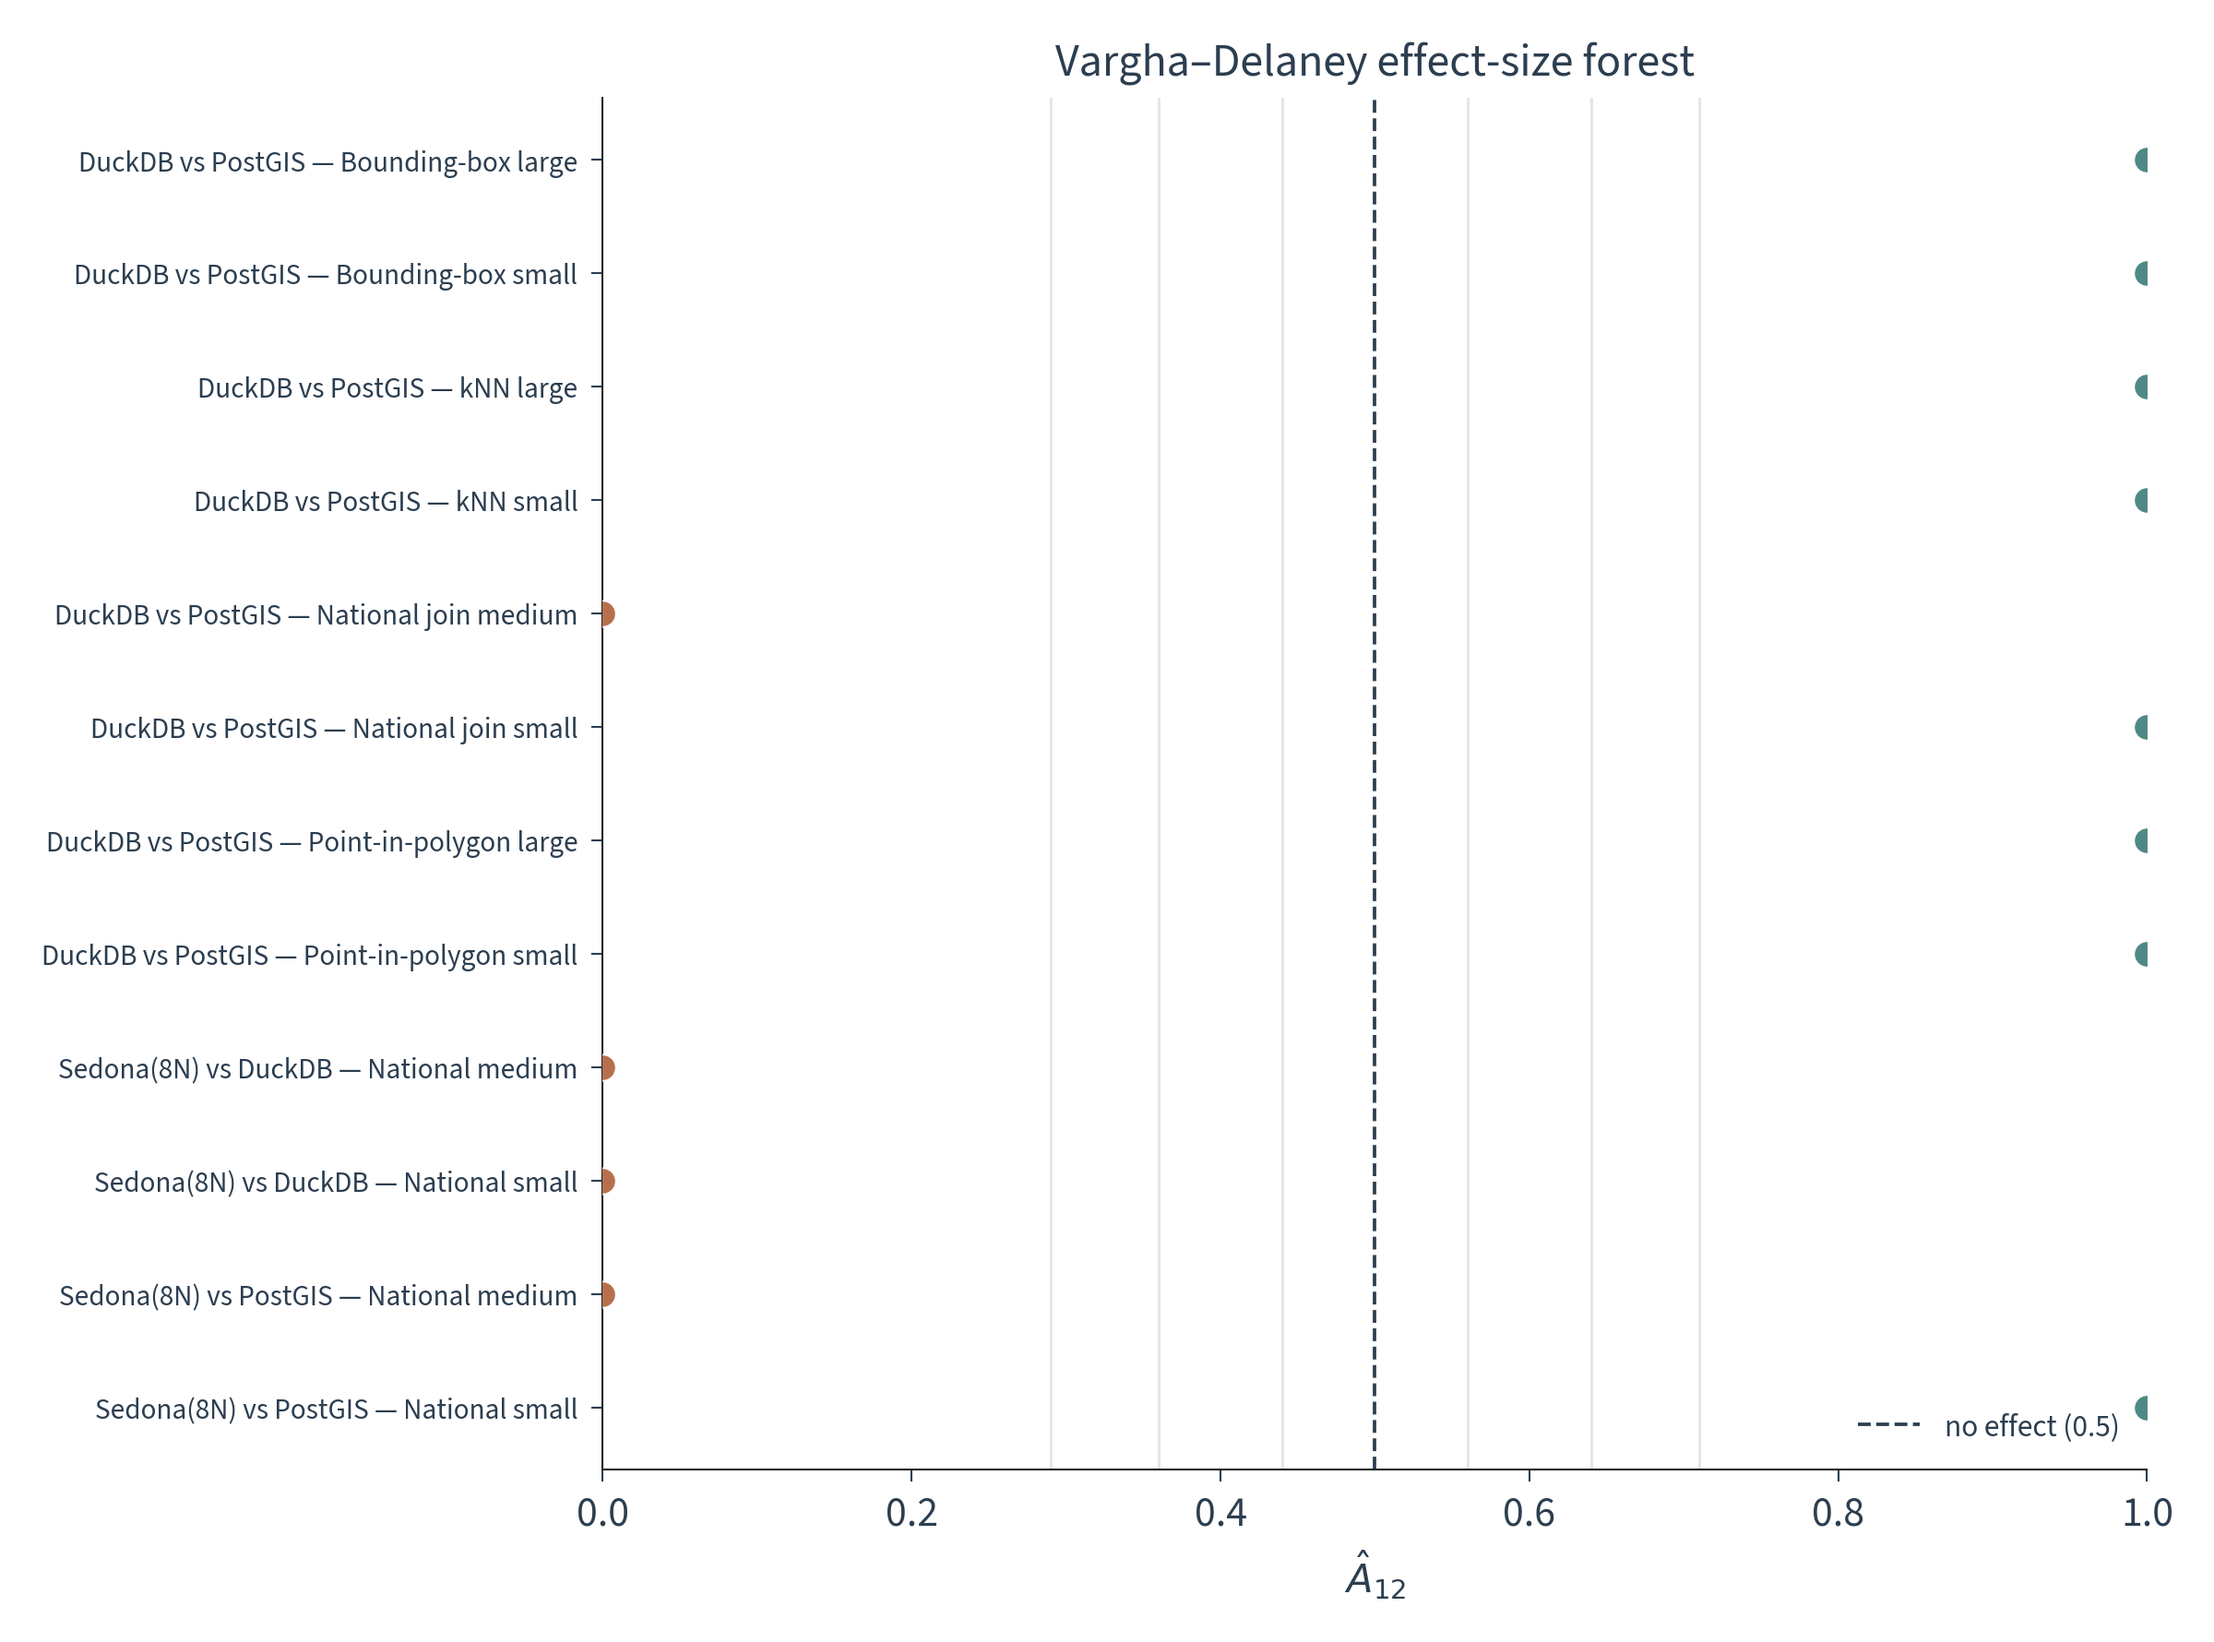
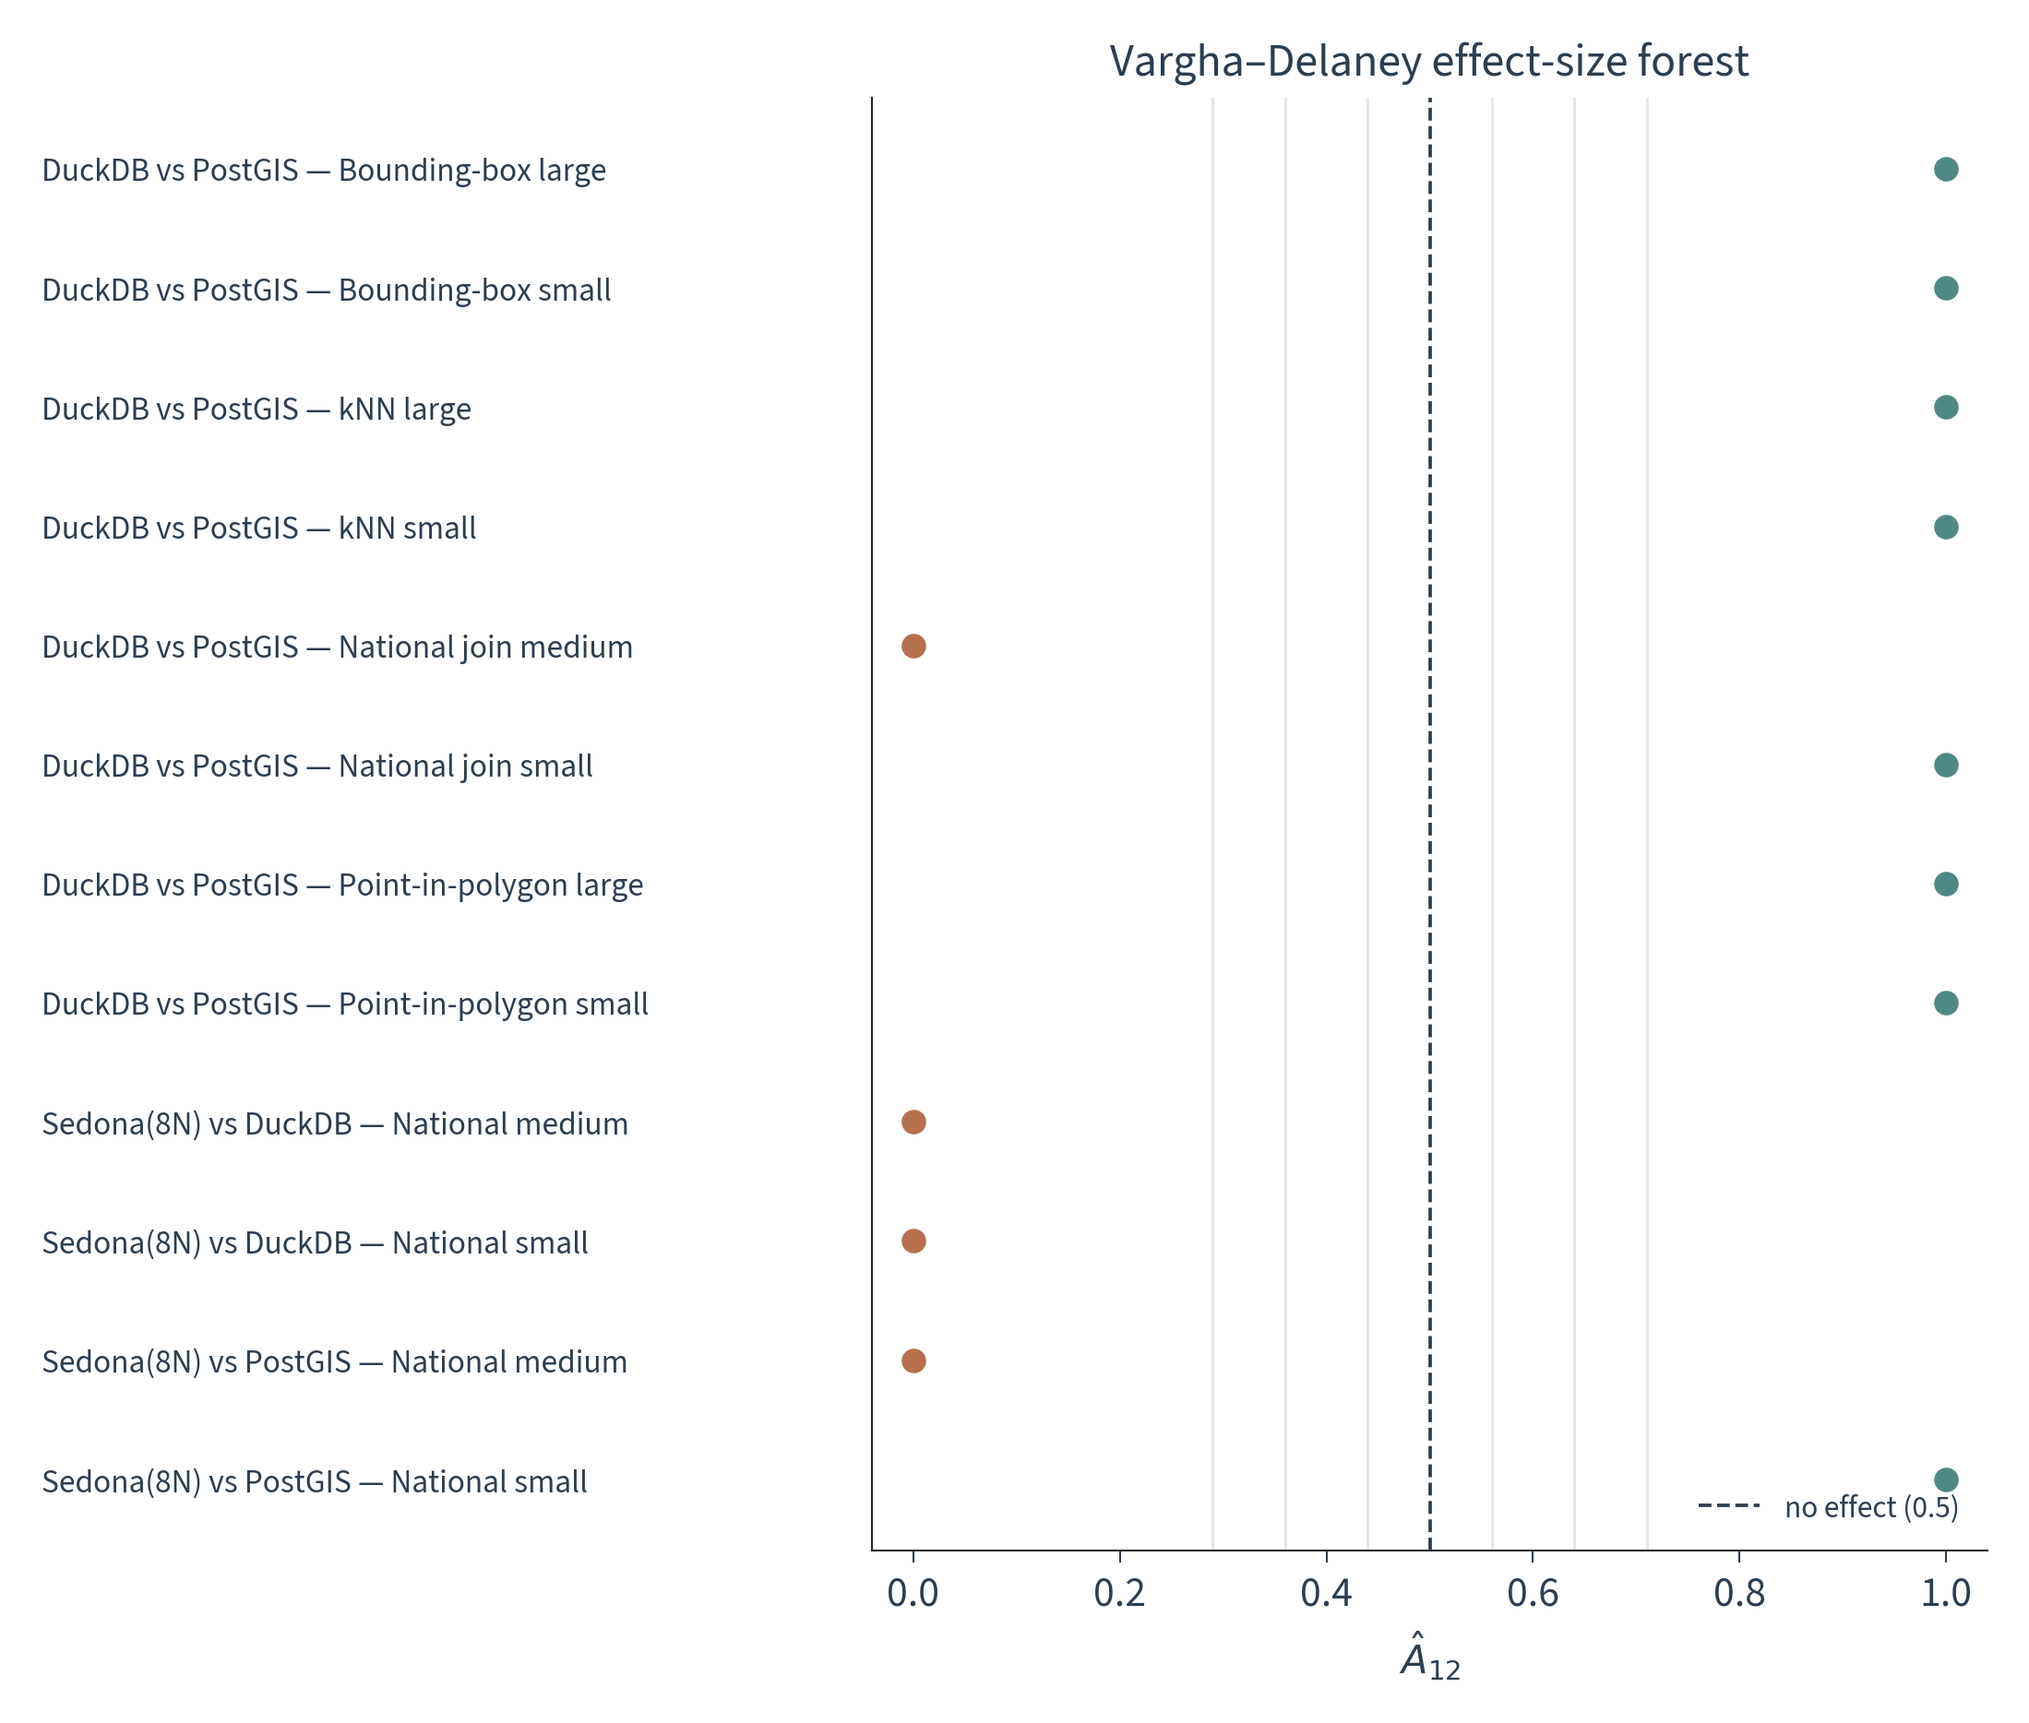
Improve readability of cliques and Vargha-Delaney forest figures
fig_cliques: configurations sharing (nearly) the same mean rank had their
labels drawn at one x position and overplotted (DuckDB+GeoParquet and
GeoPandas+Shapefile both at rank 2.33 collided). Group tied ranks and stack
their colour-coded labels vertically; grow the figure height and y-headroom
to fit the stack.

fig_a12_forest: left-align the long comparison labels in the left margin so
they neither overrun the plot nor get truncated; pad the x-limits to
(-0.04, 1.04) so the markers and CIs at A12 = 0 and 1 are no longer clipped
by the spines; bump the label font (7.5 -> 8.5) and trim the native width so
the figure is downscaled less on the page.

Presentation only; no change to data or statistics. Regenerated via the RQ3
synthesis pipeline (fig_cliques, fig_a12_forest); both figures are
deterministic (no bootstrap), so other figures' CIs are untouched.

diff --git a/src/plotting/thesis_figures.py b/src/plotting/thesis_figures.py
@@ -1133,16 +1133,34 @@ def fig_cliques(mean_ranks: dict, nonsig_pairs: list, style: StyleConfig, out_pa
     items = sorted(mean_ranks.items(), key=lambda kv: kv[1])
     cfgs = [c for c, _ in items]
     ranks = [r for _, r in items]
-    fig, ax = plt.subplots(figsize=(7.0, 2.4 + 0.35 * len(cfgs)))
+    span = (max(ranks) - min(ranks)) or 1.0
+    # Configurations that share (nearly) the same mean rank would otherwise have
+    # their labels drawn at one x position and overplotted; group such ties so the
+    # labels can be stacked vertically instead of colliding.
+    tol = 0.04 * span
+    clusters: list[list[tuple]] = []
+    for c, r in items:
+        if clusters and abs(r - clusters[-1][-1][1]) <= tol:
+            clusters[-1].append((c, r))
+        else:
+            clusters.append([(c, r)])
+    max_stack = max(len(cl) for cl in clusters)
+
+    fig, ax = plt.subplots(
+        figsize=(7.0, 2.4 + 0.35 * len(cfgs) + 0.55 * (max_stack - 1)))
     ax.hlines(0, min(ranks) - 0.3, max(ranks) + 0.3, color=PALETTE["thesisslate"],
               linewidth=LW_BORDER)
     for c, r in items:
         col = _name_color(style, c)
         ax.scatter(r, 0, s=60, color=col, zorder=4, edgecolor="white",
                    linewidth=LW_MARKER_EDGE)
-        ax.annotate(f"{_name_label(style, c)}\n({r:.2f})", xy=(r, 0), xytext=(0, 12),
-                    textcoords="offset points", ha="center", fontsize=7.5,
-                    color=shade(col, 0.2))
+    label_y0, label_dy = 0.05, 0.075
+    for cluster in clusters:
+        for k, (c, r) in enumerate(cluster):
+            col = _name_color(style, c)
+            ax.annotate(f"{_name_label(style, c)}\n({r:.2f})",
+                        xy=(r, label_y0 + k * label_dy), ha="center", va="bottom",
+                        fontsize=7.5, color=shade(col, 0.2))
     level = -0.04
     drawn = set()
     for a, b in nonsig_pairs:
@@ -1151,7 +1169,8 @@ def fig_cliques(mean_ranks: dict, nonsig_pairs: list, style: StyleConfig, out_pa
                     color=PALETTE["thesisbrick"], linewidth=1.8, zorder=3)
             level -= 0.035
             drawn.add((a, b))
-    ax.set_ylim(level - 0.05, 0.18)
+    top = label_y0 + (max_stack - 1) * label_dy + 0.14
+    ax.set_ylim(level - 0.05, top)
     ax.set_yticks([])
     ax.set_xlabel("Mean rank (lower = faster)")
     for s in ["top", "left", "right"]:
@@ -1169,7 +1188,8 @@ def fig_a12_forest(forest_df: pd.DataFrame, style: StyleConfig, out_path) -> Pat
     """Vargha-Delaney A12 forest: one row per key comparison, with arcuri bands."""
     forest_df = forest_df.reset_index(drop=True)
     n = len(forest_df)
-    fig, ax = plt.subplots(figsize=(7.2, 0.42 * n + 1.4))
+    labels = list(forest_df["label"])
+    fig, ax = plt.subplots(figsize=(5.2, 0.46 * n + 1.3))
     for i, row in forest_df.iterrows():
         y = n - i - 1
         a12 = row["a12"]
@@ -1186,8 +1206,17 @@ def fig_a12_forest(forest_df: pd.DataFrame, style: StyleConfig, out_path) -> Pat
     ax.axvline(0.5, color=PALETTE["thesisslate"], linestyle="--", linewidth=LW_CONNECTOR,
                zorder=1, label="no effect (0.5)")
     ax.set_yticks(range(n))
-    ax.set_yticklabels(list(forest_df["label"])[::-1], fontsize=7.5)
-    ax.set_xlim(0, 1)
+    ax.set_yticklabels(labels[::-1], fontsize=8.5, ha="left")
+    # Left-align the long comparison labels in the left margin so they neither
+    # overrun the plot nor get truncated: pad the tick labels past the longest
+    # string so every label's left edge lines up to the left of the axis.
+    pad = 6 + 5.0 * max(len(s) for s in labels)
+    ax.tick_params(axis="y", length=0, pad=pad)
+    # Pad the x-limits so markers and CIs at the A12 extremes (0 and 1) are not
+    # clipped by the spines.
+    ax.set_xlim(-0.04, 1.04)
+    ax.set_xticks([0.0, 0.2, 0.4, 0.6, 0.8, 1.0])
+    ax.set_ylim(-0.6, n - 0.4)
     ax.set_xlabel(r"$\hat{A}_{12}$")
     ax.set_title("Vargha–Delaney effect-size forest")
     ax.legend(fontsize=8, loc="lower right")
